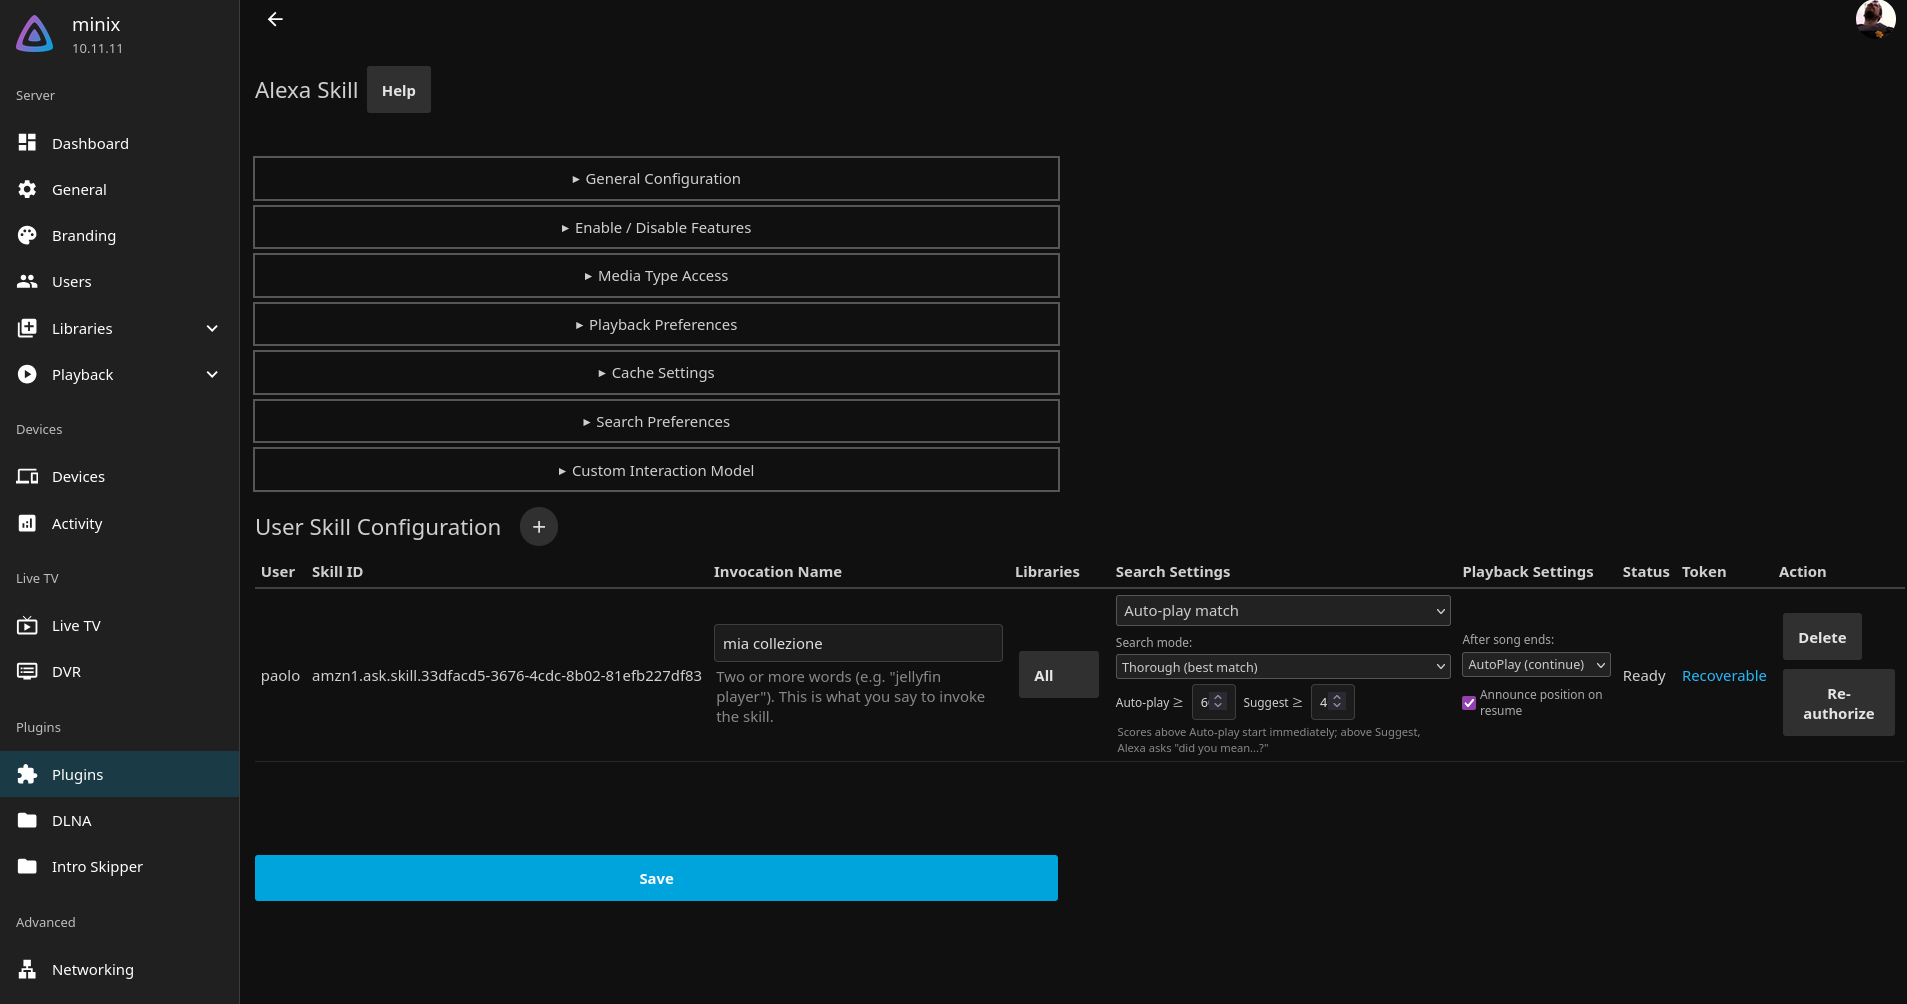
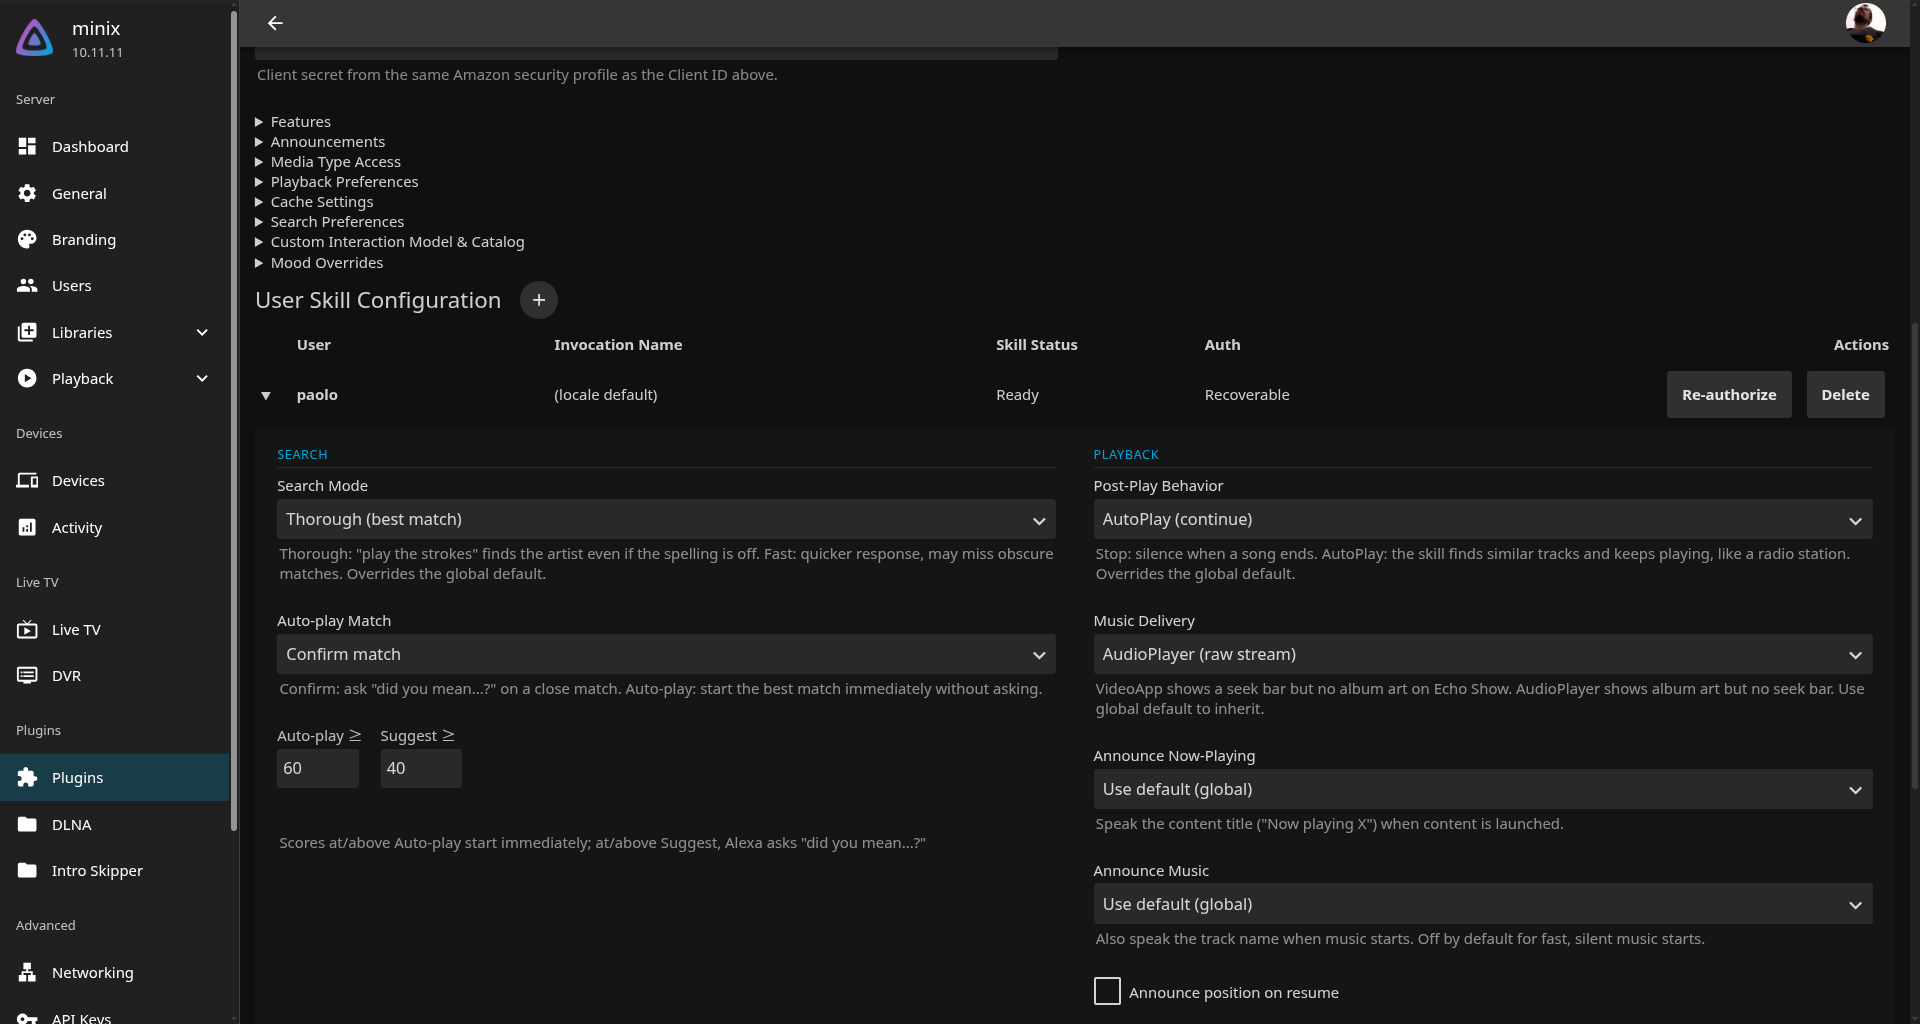
docs: update settings screenshot to v0.11 config layout + README description

diff --git a/README.md b/README.md
@@ -236,6 +236,8 @@ The plugin uses **Login with Amazon (LWA)** to create and manage your Alexa skil
   <img src="screenshots/settings.png" alt="Plugin Configuration" width="700" />
 </div>
 
+The configuration page has two sections: global settings at the top (server address, SSL, Amazon credentials, feature toggles, announcements, playback defaults, cache, search, catalog sync, mood overrides), and the per-user skill table below (each row expands to show search mode, playback, music delivery, invocation name, and library access for that user).
+
 1. Open your Jellyfin admin dashboard
 2. Go to **Plugins** and find **AlexaSkill** in the installed plugins list
 3. Click on the plugin to open its configuration page
